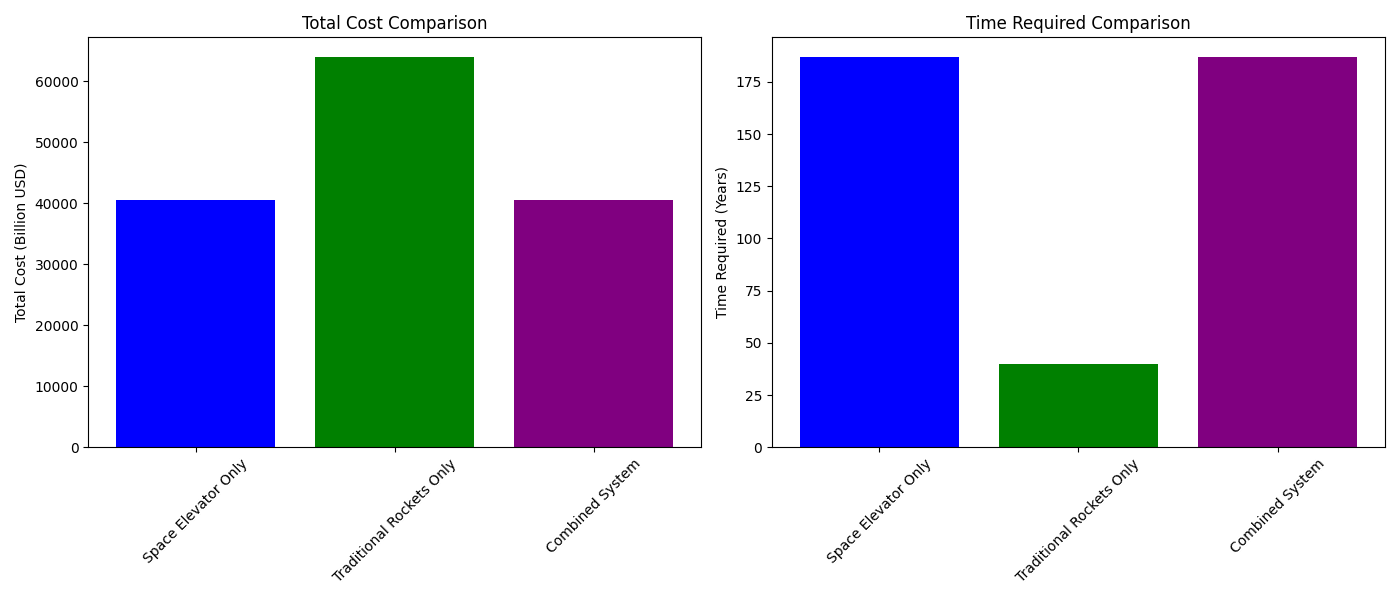
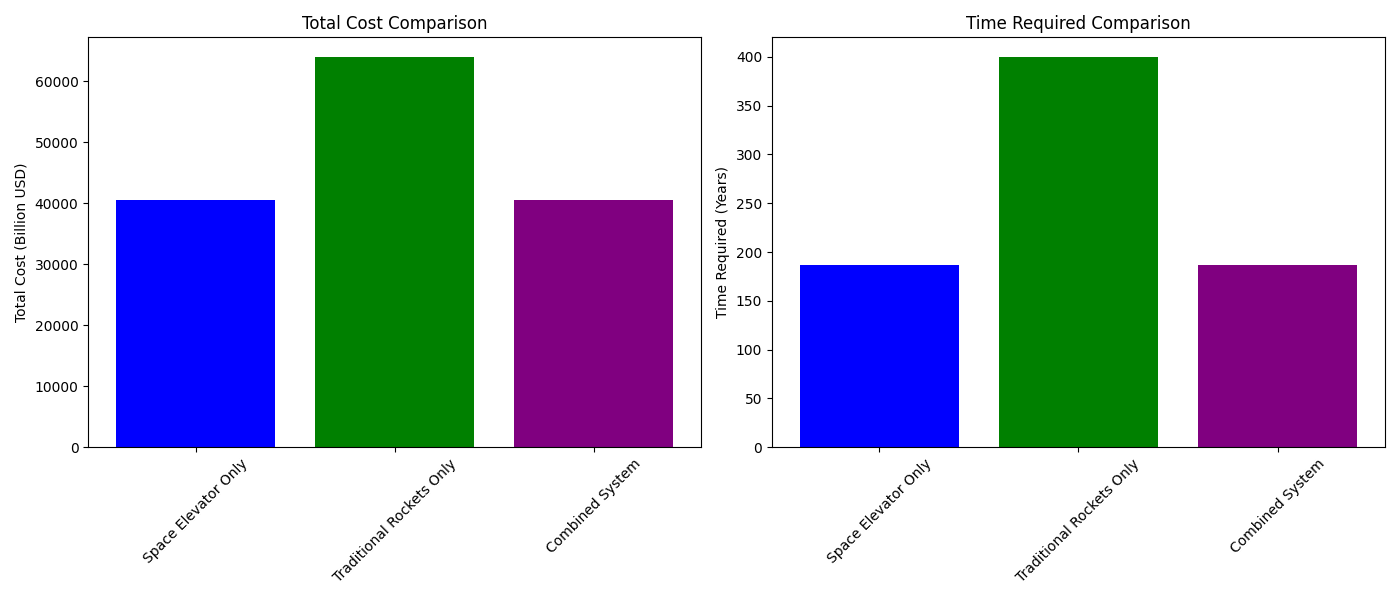
figures: save figures seperately

diff --git a/src/constants.py b/src/constants.py
@@ -54,7 +54,7 @@ ROCKET_PAYLOAD_MAX = 150  # 火箭最大有效载荷（吨）
 ROCKET_PAYLOAD_AVG = (ROCKET_PAYLOAD_MIN + ROCKET_PAYLOAD_MAX) / 2  # 平均有效载荷
 ROCKET_COST_PER_LAUNCH = 4_000_000_000  # 单次发射成本（美元）
 ROCKET_THETA = 0.4 # 可回收火箭消耗系数
-ROCKET_LAUNCHES_PER_YEAR_PER_SITE = 2000  # 每个发射场每年发射次数
+ROCKET_LAUNCHES_PER_YEAR_PER_SITE = 200  # 每个发射场每年发射次数
 ROCKET_N_G = 20 # 复用次数
 # 计算单位有效载荷成本：考虑发射成本、消耗系数、复用次数和可靠性
 # Problem 1 成本计算（100%可靠性）

diff --git a/README.md b/README.md
@@ -14,6 +14,7 @@ This repository contains the solution for the 2026 MCM Problem B, which focuses 
   - `space_launch_data_2000_2025.csv`: Processed data based on the original dataset
 - `models/`: Contains models and algorithms implementation
 - `results/`: Contains output results and visualizations
+- `figures/`: Generated figures for the analysis
 - `src/`: Main source code
   - `model.py`: Core model implementation for scenario analysis
   - `plotter.py`: Chart generation for visualizing results
